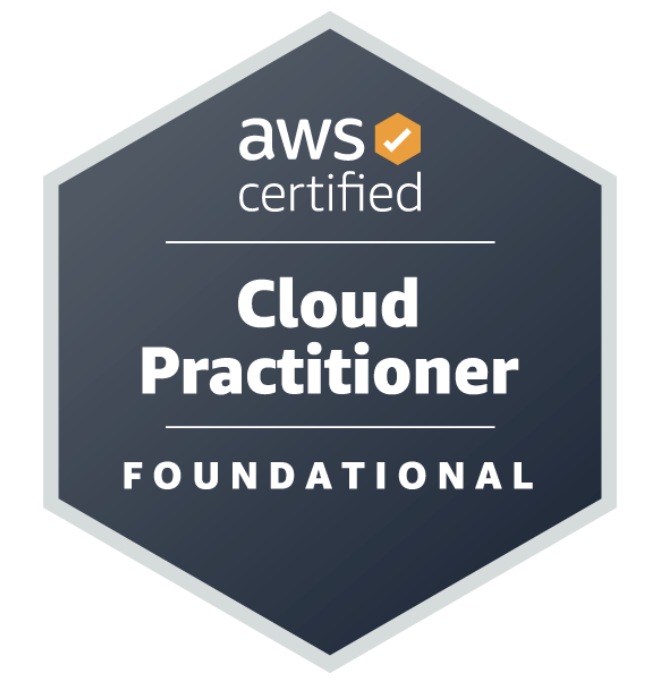
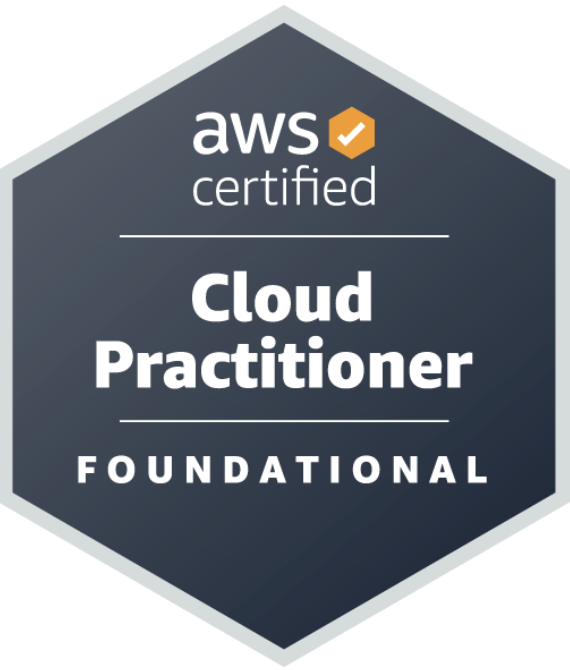
Formatted badges and rows to be more in line. Left-aligned all certificate content to their parent for max screen size

Changed region(s): [[0.0, 0.0, 1.0, 1.0], [0.1491, 0.3881, 0.8351, 0.597]]

diff --git a/src/components/Certificate.jsx b/src/components/Certificate.jsx
@@ -8,25 +8,41 @@ export default function Certificate({ cert }) {
     const certDuration = cert.duration;
     const certDescription = cert.description;
     const certSrc = cert.src;
+    const certBadgeSrc = cert.badgeSrc
 
 
-    return (<>
-        <div id={'certificate-' + certID} className="certificate col-12 col-sm-12 col-md-12 col-lg-8 col-xl-9">
-            <div className="row">
-                <div className="col-12 col-sm-9 col-md-9 col-lg-8 col-xl-8">
-                    <h3>{certTitle}</h3>
-                    <p className="certificate-subtitle"><span className="italics">{certSubtitle}<br className="subtitle-break" /> </span><span className="bullet-point"></span> {certDuration}</p>
-                </div>
-                <div className="col-12 col-sm-3 col-md-3 col-lg-4 col-xl-4">
-                    <p>Image placeholder</p>
-                </div>
+    return (
+        <div id={'certificate-' + certID} className="certificate col-12 col-sm-12 col-md-12 col-lg-8 col-xl-10">
+            <div id="certificate-badge-row" className="row">
+                {
+                    certBadgeSrc.length > 0 ?
+                        <>
+                            <div className="col-12 col-sm-9 col-md-9 col-lg-9 col-xl-9 px-0 mx-0"> {/* Set padding and margin to 0 */}
+                                <h3>{certTitle}</h3>
+                                <p className="certificate-subtitle"><span id="certificate-subtitle" className="italics">{certSubtitle}<br className="subtitle-break" /> </span><span className="bullet-point"></span> {certDuration}</p>
+                            </div>
+                            <div id="certificate-badge-col" className="col-12 col-sm-3 col-md-3 col-lg-3 col-xl-2 px-0 mx-0"> {/* Set padding and margin to 0 */}
+                                <img className="certificate-badge" src={`${certBadgeSrc}`} alt={`Certificate badge for: ${certSubtitle}`} />
+                            </div>
+                        </>
+                        : 
+                        <>
+                        <div className="col-12 col-sm-12 col-md-12 col-lg-8 col-xl-12 px-0 mx-0"> {/* Set padding and margin to 0 */}
+                            <h3>{certTitle}</h3>
+                            <p className="certificate-subtitle"><span className="italics">{certSubtitle}<br className="subtitle-break" /> </span><span className="bullet-point"></span> {certDuration}</p>
+                        </div>
+                    </>
+                }
             </div>
             <div className="row">
-                <div className="col-12">
+                <div className="col-12 px-0 mx-0"> {/* Set padding and margin to 0 */}
                     <p className="certificate-description">{certDescription}</p>
-                    <div className="certificate-button"><DownloadButton src={certSrc} buttonType="certificate" downloadName={certTitle} title="Download Certificate" /></div>
+                    <div className="certificate-button mx-0"> {/* Set padding and margin to 0 */}
+                        <DownloadButton src={certSrc} buttonType="certificate" downloadName={certTitle} title="Download Certificate" />
+                    </div>
                 </div>
             </div>
         </div>
-    </>);
+    );
+    
 }

diff --git a/src/index.css b/src/index.css
@@ -604,7 +604,11 @@ body {
   border-bottom: 3px solid #11ABB0;
 }
 
-.certificate,
+.certificate {
+  width: 100%;
+  padding-bottom: 2rem;
+}
+
 .work-experience {
   width: 100%;
   padding-bottom: 1rem;
@@ -637,7 +641,6 @@ body {
   display: none;
 }
 
-
 /* Extra small devices (phones, less than 576px) */
 /* Styles applied here will affect devices with a maximum width of 575.98px */
 @media (max-width: 575.98px) {
@@ -654,6 +657,10 @@ body {
 
   #resume h3, .work-experience-position, .certificate-subtitle, .education-subtitle {
     text-align: center;
+  }
+
+  #certificate-subtitle {
+    font-size: 1rem;
   }
 
   .work-experience-position, .certificate-subtitle, .education-subtitle {
@@ -681,6 +688,18 @@ body {
   .bullet-point {
     display: none;
   }
+
+  .certificate-badge {
+    width: 30%;
+    height: 30%;
+    object-fit: contain;
+    padding: 10px;
+    margin: 0;
+  }
+
+  #certificate-badge-col {
+    height: 50%;
+  }
 }
 
 /* Small devices (phones, 576px and up) */
@@ -701,7 +720,9 @@ body {
     text-align: center;
   }
 
-
+  #certificate-subtitle {
+    font-size: 1rem;
+  }
 
   #certificate-section-content {
     display: flex;
@@ -715,6 +736,14 @@ body {
     margin-right: 0;
     /* Add some spacing between bullet point and text */
     font-size: 1.5em;
+  }
+
+  .certificate-badge {
+    width: 100%;
+    height: 100%;
+    object-fit: contain;
+    padding: 0;
+    margin: 0;
   }
 }
 
@@ -749,6 +778,19 @@ body {
     /* Add some spacing between bullet point and text */
     font-size: 1.5em;
   }
+
+  .certificate-badge {
+    width: 60%;
+    height: 60%;
+    object-fit: contain;
+    padding: 0;
+    margin: 0;
+  }
+
+  #certificate-badge-row div {
+    height: 100%;
+    padding: 0;
+  }
 }
 
 /* Large devices (desktops, 992px and up) */
@@ -772,10 +814,15 @@ body {
     text-align: left;
   }
 
+  #certificate-subtitle {
+    font-size: 1.1rem;
+  }
+
   #certificate-section-content {
     display: flex;
     flex-direction: column;
     align-items: flex-start;
+    margin: 0;
   }
 
   .bullet-point::before {
@@ -790,6 +837,18 @@ body {
     text-align: left;
   }
 
+  .certificate-badge {
+    width: 60%;
+    height: 60%;
+    object-fit: contain;
+    padding: 0;
+    margin: 0;
+  }
+
+  #certificate-badge-row div {
+    height: 100%;
+    padding: 0;
+  }
 }
 
 /* Extra large devices (large desktops, 1200px and up) */
@@ -809,7 +868,7 @@ body {
     text-align: left;
   }
 
-  .certificate-subtitle, .work-experience-position, .education-subtitle {
+  .certificate-subtitle, .work-experience-position, .education-subtitle, .certificate-button {
     text-align: left;
   }
 
@@ -819,16 +878,24 @@ body {
     align-items: flex-start;
   }
 
-  .certificate-button {
-    text-align: left;
-  }
-
   .bullet-point::before {
     content: '\2022';
     /* Unicode character for bullet point */
     margin-right: 0;
     /* Add some spacing between bullet point and text */
     font-size: 1.5em;
+  }
+
+  .certificate-badge {
+    width: 100%;
+    height: 100%;
+    object-fit: contain;
+    padding: 10px;
+    margin: 0;
+  }
+
+  #certificate-badge-col {
+    height: 100%;
   }
 }
 

diff --git a/src/components/Resume.jsx b/src/components/Resume.jsx
@@ -12,7 +12,8 @@ export default function Resume() {
         subtitle: 'AWS Certified Cloud Practitioner',
         duration: 'January 2024',
         description: 'Earners of this certification have a fundamental understanding of IT services and their uses in the AWS Cloud. They demonstrated cloud fluency and foundational AWS knowledge. Badge owners are able to identify essential AWS services necessary to set up AWS-focused projects.',
-        src: 'src/assets/AWS-Certified-Cloud-Practitioner-certificate.pdf'
+        src: 'src/assets/AWS-Certified-Cloud-Practitioner-certificate.pdf',
+        badgeSrc: 'src/assets/certificate-badge-aws-cloud-practitioner.png'
     };
 
     //AWS Certified Developer Certificate
@@ -22,7 +23,8 @@ export default function Resume() {
         subtitle: 'AWS Certified Developer — Associate',
         duration: 'March 2024',
         description: 'Earners of this certification have a comprehensive understanding of application life-cycle management. They demonstrated proficiency in writing applications with AWS service APIs, AWS CLI, and SDKs; using containers; and deploying with a CI/CD pipeline. Badge owners are able to develop, deploy, and debug cloud-based applications that follow AWS best practices.',
-        src: 'src/assets/AWS-Certified-Developer-Associate-certificate.pdf'
+        src: 'src/assets/AWS-Certified-Developer-Associate-certificate.pdf',
+        badgeSrc: 'src/assets/certificate-badge-aws-developer-associate.png'
     };
 
 
@@ -97,9 +99,9 @@ export default function Resume() {
                         <div id="certificate-section-header" className="col-12 col-sm-12 col-md-12 col-lg-4 col-xl-3">
                             <h4><span>Certificates</span></h4>
                         </div>
-                        <div id="certificate-section-content" className="col-12 col-sm-12 col-md-12 col-lg-8 col-xl-9">
-                            <Certificate cert={awsDeveloperAssociate} />
-                            <Certificate cert={awsCloudPractitioner} />
+                        <div id="certificate-section-content" className="col-12 col-sm-12 col-md-12 col-lg-8 col-xl-9 px-0">
+                            <Certificate cert={awsDeveloperAssociate} className="certificate-item"/>
+                            <Certificate cert={awsCloudPractitioner} className="certificate-item"/>
                         </div>
                     </div>
                 </div>
